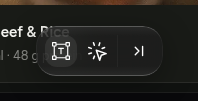
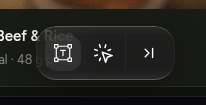
Edit bar: tools 36 px per redrawn board 31442:44737 (bar 86x46)
Designer raised the icon buttons from 32 to 36 (r12, 24 glyph in a 6 pad);
the bar follows: BAR_TOOL 36, BAR_H 46, flight-clone seats derived from the
constants. Probes: rest 86, hover 131, swollen 139; first return frame <= 84.

Claude-Session: https://claude.ai/code/session_011pKKmWvMd1NM1LsuubYKqf

diff --git a/prototype/src/modules/editor/EditBar.tsx b/prototype/src/modules/editor/EditBar.tsx
@@ -117,9 +117,11 @@ function ToolButton({ tool, label, children, hidden }: { tool: Tool; label: stri
    01.10.2026: «подкладка под кнопками становится больше, увеличиваясь во все стороны… как жидкий объект»);
    same spring as the stretch, so the two edges breathe together. Only the glass moves. */
 const GLASS_SWELL = 4
-/* board 31442:44737: frame 78 × 42 — 1 px rim inside + 4 padding around 32 tools with a 4 gap */
+/* board 31442:44737 (01.10.2026, designer: «размер самих кнопок… с 32 на 36»): frame 86 × 46 — 1 px rim inside +
+   4 padding around 36 tools (r12, glyph 24 in a 6 pad) with a 4 gap */
 const BAR_PAD = 5
-const BAR_H = 42
+const BAR_TOOL = 36
+const BAR_H = BAR_TOOL + 2 * BAR_PAD
 function GlassBar({ side, reveal, swell = false, tail, pillRef, pillProps, children }: {
   side: 'left' | 'right'
   reveal: boolean
@@ -176,7 +178,7 @@ function GlassBar({ side, reveal, swell = false, tail, pillRef, pillProps, child
     <div
       ref={(el) => { root.current = el; if (typeof pillRef === 'function') pillRef(el); else if (pillRef) (pillRef as React.MutableRefObject<HTMLDivElement | null>).current = el }}
       {...pillProps}
-      className="pointer-events-auto relative h-[42px]"
+      className="pointer-events-auto relative h-[46px]"
       data-ve-stretched={reveal ? '' : undefined}
       data-ve-swollen={swell ? '' : undefined}
     >
@@ -192,7 +194,7 @@ function GlassBar({ side, reveal, swell = false, tail, pillRef, pillProps, child
         {tail && (
           <motion.div
             ref={tailRef}
-            className="absolute flex h-[42px] items-center gap-1 pl-1 pr-[5px]"
+            className="absolute flex h-[46px] items-center gap-1 pl-1 pr-[5px]"
             style={{ top: swellV, ...(side === 'left' ? { left: tailSeat } : { right: tailSeat }) }}
             variants={editBarTail}
             initial="initial"
@@ -206,7 +208,7 @@ function GlassBar({ side, reveal, swell = false, tail, pillRef, pillProps, child
         )}
       </motion.div>
       {/* THE TOOLS — in flow, on top, never moved and never scaled */}
-      <div className="relative z-[1] flex h-[42px] items-center gap-1 p-[5px]">{children}</div>
+      <div className="relative z-[1] flex h-[46px] items-center gap-1 p-[5px]">{children}</div>
     </div>
   )
 }
@@ -243,17 +245,19 @@ function Flight({ flight, onDone }: { flight: Flight & { to: Rect }; onDone: () 
   const top = useTransform(p, (v) => lerp(from.y, to.y)(v) + (lerp(from.height, to.height)(v) * FLIGHT_THIN * bell(v)) / 2)
   /* the tools follow the WIDTH, not the clock: Select is opaque once the box has room for it,
      the handle once it has room for that too; «T» sits at 4 in a pill and centred (8) in a 48 tile */
-  const selO = useTransform(width, (w) => Math.max(0, Math.min(1, (w - 56) / 20)))
-  const tailO = useTransform(width, (w) => Math.max(0, Math.min(1, (w - 96) / 20)))
+  const selO = useTransform(width, (w) => Math.max(0, Math.min(1, (w - (BAR_PAD + BAR_TOOL + 4 + 12)) / 20)))
+  const tailO = useTransform(width, (w) => Math.max(0, Math.min(1, (w - (BAR_PAD + 2 * BAR_TOOL + 4 + 20)) / 20)))
   /* «T» sits at 5 in the pill (BAR_PAD) and centred (8) in the 48 tile */
-  const tLeft = useTransform(width, (w) => Math.max(BAR_PAD, Math.min(8, 8 - (w - 48) / 7)))
-  const tTop = useTransform(height, (h) => (h - 32) / 2)
+  /* seat in the 48 tile: (48 − 36) / 2 = 6 */
+  const tileSeat = (48 - BAR_TOOL) / 2
+  const tLeft = useTransform(width, (w) => Math.max(BAR_PAD, Math.min(tileSeat, tileSeat - (w - 48) / 38)))
+  const tTop = useTransform(height, (h) => (h - BAR_TOOL) / 2)
   useEffect(() => {
     const ctrl = animate(p, 1, { ...EDIT_DOCK_FLIGHT, onComplete: onDone })
     return () => ctrl.stop()
     // eslint-disable-next-line react-hooks/exhaustive-deps
   }, [])
-  const btn = 'absolute grid h-8 w-8 place-items-center rounded-[12px] text-white'
+  const btn = 'absolute grid h-9 w-9 place-items-center rounded-[12px] text-white'
   return (
     <motion.div
       data-ve-flight={flight.dir}
@@ -262,10 +266,10 @@ function Flight({ flight, onDone }: { flight: Flight & { to: Rect }; onDone: () 
       aria-hidden
     >
       <motion.span className={btn} style={{ left: tLeft, top: tTop }}><GlyphEditText size={24} /></motion.span>
-      <motion.span className={btn} style={{ left: BAR_PAD + 36, top: tTop, opacity: selO }}><GlyphSelect size={24} /></motion.span>
-      <motion.span className="absolute flex items-center gap-1" style={{ left: BAR_PAD + 72, top: tTop, opacity: tailO }}>
-        <span className="h-8 w-px bg-[var(--glass-divider)]" />
-        <span className="grid h-8 w-8 place-items-center rounded-[12px] text-white"><GlyphDockRight size={22} /></span>
+      <motion.span className={btn} style={{ left: BAR_PAD + BAR_TOOL + 4, top: tTop, opacity: selO }}><GlyphSelect size={24} /></motion.span>
+      <motion.span className="absolute flex items-center gap-1" style={{ left: BAR_PAD + 2 * (BAR_TOOL + 4), top: tTop, opacity: tailO }}>
+        <span className="h-9 w-px bg-[var(--glass-divider)]" />
+        <span className="grid h-9 w-9 place-items-center rounded-[12px] text-white"><GlyphDockRight size={22} /></span>
       </motion.span>
     </motion.div>
   )
@@ -460,7 +464,7 @@ export function EditBar() {
                    move; a pending batch keeps the pill where it is (Save/Clear are the only way out) */
                 tail={
                   <>
-                    <span className="h-8 w-px bg-[var(--glass-divider)]" aria-hidden />
+                    <span className="h-9 w-px bg-[var(--glass-divider)]" aria-hidden />
                     <button type="button" className="ve-bar-btn press-bloom" aria-label={dockBtnLabel} title={dockBtnLabel} onClick={dock} tabIndex={hover && !history ? 0 : -1} data-ve-dock-to-rail>
                       <GlyphDockRight size={22} />
                     </button>
@@ -517,7 +521,7 @@ export function EditBar() {
                 >
                   <GlassBar side="right" reveal={false} pillProps={{ 'data-ve-bar': '', 'data-ve-popped': '', 'data-ve-dirty': dirty ? '' : undefined }}>
                     {tools}
-                    <span className="h-8 w-px bg-[var(--glass-divider)]" aria-hidden />
+                    <span className="h-9 w-px bg-[var(--glass-divider)]" aria-hidden />
                     <button type="button" className="ve-bar-btn press-bloom" aria-label={t({ en: 'Put the tools back under the preview', uk: 'Повернути інструменти під превʼю' })} title={t({ en: 'Put the tools back under the preview', uk: 'Повернути інструменти під превʼю' })} onClick={undock} data-ve-undock>
                       <GlyphUndock size={22} />
                     </button>

diff --git a/prototype/src/index.css b/prototype/src/index.css
@@ -5187,8 +5187,8 @@ html[data-drag] .chat-reopen .chat-reopen-grip { opacity: 1; }
   position: relative;
   display: grid;
   place-items: center;
-  width: 32px;
-  height: 32px;
+  width: 36px; /* board 31442:44739 (01.10.2026): 36, r12, glyph 24 in a 6 pad — was 32 */
+  height: 36px;
   border-radius: 12px; /* board 31422:43616 (30.09.2026): hover, press and the selected disc all sit on r12 — «чтобы выглядело симметрично и ровно» */
   color: #fff;
   transition: background-color var(--dur-fast) var(--ease-std), opacity var(--dur-fast) var(--ease-std);

diff --git a/docs/knowledge/design-system.md b/docs/knowledge/design-system.md
@@ -220,7 +220,7 @@ stroke-паинтов через Plugin API (26.08.2026) и подтвержде
 | `.home-chip` / `.home-chip-cap` | промпт-чипы героя и круглый end-cap ряда | `Black/300` `#09090b3d` + `blur(16px)` | **обод плоский** (чипы `White/300` 24 %, cap `White/200` 12 %) — см. «Матовое стекло промпт-чипов» ниже | 28364:40330…40338, 28364:40340 |
 | `.liquid-glass--chip` | плашка размером в слово: `Recommended` на ряду брифа, `Remixer's pick` на карточке решения плана (`ui/Chip.tsx`, h 24, 13 medium, px 10, круглая). **С 16.09.2026 — СВОЁ стекло, не кнопочное** (дизайнер: «мне не нравится что они похожи на кнопки… для подобных пилюль (не кнопок) эффект liquid glass нужно сделать более реалистичным и стеклянным»): см. §5 «Стекло-бейдж» | **прозрачное тело**: 3 % белого + свет сверху (радиал 9 % → 0), **без blur** (за ней в обоих домах плоский цвет); внутри тонкая тёмная полоса толщины `inset 0 0 5px` чёрного 18 % | **не обводка, а СВЕТ**: два блика на кромке — вдоль верхней кромки из левого конца (95 %) и вдоль нижней в правый конец (75 %), радиалы по центру кромки шириной в половину плашки; два дальних конца ловят след 20 %; сама кромка 7 % | дизайнер 11.09.2026 (форма) · 16.09.2026 (стекло; стенд `prototype/scratchpad/glass-stand/`) |
 | `.liquid-glass--chip[data-tone]` | **та же плашка, окрашенная в тон статуса** — слово-статус домена в ряду `Unlink` панели Publish (`data-tone`: `live` · `working` · `stuck` · `ready` → токены `--live` · `--attention` · `--danger` · `--action`). **Слева внутри — точка 8 в цвет чернил, инсеты 8 · 8 · 8** (край → точка → слово), правый паддинг 10. **Чернила = тон, кроме `ready`: `--action-ink` #51A6FF** (дизайнер 16.09.2026) — стекло остаётся на `--action` | тон **18 % → 9 %** (тело 9 % + свет сверху 18 % → 0, `color-mix`) | те же два блика и два следа, но **бликом служит тон, поднятый наполовину к белому** (`color-mix(tone 50%, #fff)`) — блик на цветном стекле бледный, не насыщенный; кромка тон 20 %, следы 28 %. Альфы выше нейтральных, потому что оттенок тусклее белого. **Чернила — сам тон.** Пятого цвета через эту дверь не пройти: тона перечислены по имени | дизайнер 16.09.2026 («стекла в цвет статуса… и текст тоже оттенков статуса»; стенды `prototype/scratchpad/slot-stand/`, стекло — `glass-stand/`) |
-| `.liquid-glass--editbar` | **второе стекло — ТОЛЬКО панель инструментов редактора и её летящий клон** (борд `31442:44737`, дизайнер 01.10.2026: «я именно для этого бара только эксклюзивно изменил параметры стекла… второй вид стекла и сейчас оно должно быть применено только к этому бару»). Бокс 78 × 42 r16 = рим 1 внутри + паддинг 4 вокруг кнопок 32 с зазором 4 | `rgba(31,31,31,.67)` под **вертикальным** светом: белый 5 % на 0 %, 0 на 20–80 %, 5 % на 100 % — свет лежит на верхней и нижней кромках, не по диагонали; `blur(16px)`; тень `0 8 32 rgba(0,0,0,.33)` | **вертикальный**, 1 px внутри: `Neutral Alpha/300` 24 % на 0 и 100 %, `/50` 4 % на 25–75 % — ярко у верха и низа, гаснет по бокам. Это первое стекло дома с осью 180°, а не 150°/диагональ | дизайнер 01.10.2026, скриншоты Figma + CSS-экспорт; пробник `prototype/scratchpad/edit-dock/swell.mjs` |
+| `.liquid-glass--editbar` | **второе стекло — ТОЛЬКО панель инструментов редактора и её летящий клон** (борд `31442:44737`, дизайнер 01.10.2026: «я именно для этого бара только эксклюзивно изменил параметры стекла… второй вид стекла и сейчас оно должно быть применено только к этому бару»). Бокс 86 × 46 r16 = рим 1 внутри + паддинг 4 вокруг кнопок **36** (r12, глиф 24) с зазором 4 — кнопки подняты с 32 в ту же ночь по слову дизайнера | `rgba(31,31,31,.67)` под **вертикальным** светом: белый 5 % на 0 %, 0 на 20–80 %, 5 % на 100 % — свет лежит на верхней и нижней кромках, не по диагонали; `blur(16px)`; тень `0 8 32 rgba(0,0,0,.33)` | **вертикальный**, 1 px внутри: `Neutral Alpha/300` 24 % на 0 и 100 %, `/50` 4 % на 25–75 % — ярко у верха и низа, гаснет по бокам. Это первое стекло дома с осью 180°, а не 150°/диагональ | дизайнер 01.10.2026, скриншоты Figma + CSS-экспорт; пробник `prototype/scratchpad/edit-dock/swell.mjs` |
 | `.tip-glass` | **тултип — стеклянный пузырь с хвостом** (`ui/Tooltip.tsx`): объяснение слова-статуса домена над плашкой в ряду `Unlink`; тело 7 × 12 / r10, хвост 14 × 7 со скруглённой вершиной, кончик в 6 px от цели; текст 13 medium по центру, до 280 | `rgba(24,24,27,.82)` + **blur 16** (за пузырём поле и подпись — есть что размывать); тело и хвост — ОДНА фигура `clip-path: path()` | **тот же рим, что у контролов — домашняя диагональ 20 → 9 → 7 → 16 %**, но нарисованный SVG-штрихом по тому же пути, что клип: `::before`-маска не огибает хвост, штрих — да. Блик формирования: второй белый штрих .9 с | дизайнер 16.09.2026 (кадры Dock macOS «Freeform» / «Pages» и Figma «Assets ⌥2»); спека `docs/handoff/tooltip-spec.md` |
 
 ⚠ **Кружки композера БИЛДЕРА — 24 → 4 → 20 %, и это прислал сам дизайнер** (09.09.2026: «у

diff --git a/docs/knowledge/decisions.md b/docs/knowledge/decisions.md
@@ -94,7 +94,7 @@
 | 30.09.2026 | **Аррайвал-блик по ободу — во всей дизайн-системе — заменён на Rim Sweep: 1 px кольцо в 3,4 раза тише (.07, голова .18 — после второго смягчения по его записи), зажигается из верхнего центра и бежит двумя фронтами по контуру, растворяется к 1,1 с** | Его запись: «бордер на пару секунд становится белым… стрёмно… раза в 2–3 менее ярким… вспышка по бордеру от центра, заполняющая весь контур… как часть дизайн системы, во всех компонентах» | **принято (заказ)**; точка старта (верхний центр) и цифры голова/тело — наши | `index.css` «THE RIM SWEEP» |
 | 30.09.2026 | **Перелёт панели инструментов в рейл и назад ужат: пружина .62 / .16 → .42 / .26, капля +12 % / −5 % → +30 % / −12 % с пиком у старта** | Его пятая запись: «саму анимацию перелёта туда, сюда, я бы сделал резче и быстрее, с таким прикольным apple liquid glass эффектом, как капля воды, сейчас… немного медленная и обычная» | **принято (заказ)**; числа наши, передача на посадке ≤ 0,5 px сохранена | `ui/motion.ts` `EDIT_DOCK_FLIGHT`, `EditBar.tsx` `Flight` |
 | 01.10.2026 | **Стекло панели инструментов на ховере набухает на 4 px во все стороны (Glass Swell) — вдобавок к вытягиванию под ручку; кнопки стоят** | Его шестая запись: «фон с анимацией жидкой красиво и плавно увеличивался на 4 px во все стороны… подкладка под кнопками становится больше… как жидкий объект» | **принято (заказ)**; радиус 16 → 20 и та же пружина — наши | `EditBar.tsx` `GLASS_SWELL`, `GlassBar` |
-| 01.10.2026 | **Панель инструментов редактора носит СВОЁ, второе стекло (`.liquid-glass--editbar`: тело 31/31/31 на 67 %, вертикальный свет 5 % на кромках, вертикальный рим 24 → 4 → 4 → 24 %) и коробку 78 × 42 борда 31442:44737 — только она и её летящий клон** | Дизайнер: «я именно для этого бара только эксклюзивно изменил параметры стекла… второй вид стекла и сейчас оно должно быть применено только к этому бару» | **принято (борд)**; синий диск выбранного инструмента оставлен — на борде плита ховера («да это просто типа ховер», 01.10.2026) | `index.css` `.liquid-glass--editbar`, `EditBar.tsx` `BAR_PAD` / `BAR_H` |
+| 01.10.2026 | **Панель инструментов редактора носит СВОЁ, второе стекло (`.liquid-glass--editbar`: тело 31/31/31 на 67 %, вертикальный свет 5 % на кромках, вертикальный рим 24 → 4 → 4 → 24 %) и коробку борда 31442:44737 — 78 × 42, а после его же правки кнопок 32 → 36 в ту же ночь **86 × 46** — только она и её летящий клон** | Дизайнер: «я именно для этого бара только эксклюзивно изменил параметры стекла… второй вид стекла и сейчас оно должно быть применено только к этому бару» | **принято (борд)**; синий диск выбранного инструмента оставлен — на борде плита ховера («да это просто типа ховер», 01.10.2026) | `index.css` `.liquid-glass--editbar`, `EditBar.tsx` `BAR_PAD` / `BAR_H` |
 | 30.09.2026 | **Летящий клон панели несёт те же кнопки, что дома (Select проявляется по ширине, «T» едет между сиденьями), и вытягивается каплей вдоль пути** | Вторая запись дизайнера: «когда кнопки возвращаются назад… 1 или 2 кадра разворачивает кнопки» — клон с одним глифом стоял на месте, потом подменялся пилюлей за кадр | **принято (правка по отклонению)**; замер подмены ≤ 0,7 px | `EditBar.tsx` `Flight` |
 | 30.09.2026 | **При ховере панели инструментов двигается ТОЛЬКО стекло: кнопки не сдвигаются и не масштабируются; рост — настоящая ширина слоя под ними с перелётом пружины, не `layout`** | Первая сборка отклонена по записи: «зачем оно деформирует кнопки при анимации??? … кнопки начинают от тебя убегать левее… нет … жидкости и плавности» — `layout` на пилюле масштабировал детей, центрирование сдвигало их влево | **принято (правка по отклонению)** | `EditBar.tsx` `GlassBar`, `EDIT_BAR_STRETCH` |
 | 30.09.2026 | **Панель инструментов докается в правый рейл над кнопкой поддержки — ОДНИМ летящим стеклом, а не «погасла и появился язычок», как у Lovable** | Его заказ по записи Lovable («перелетает и прикрепляется справа… при ховере выскакивают кнопки… по клику вернуть») и скриншот рейла с местом; у Lovable две картинки и кромка канваса — у нас один объект и рейл (место назвал он) | **принято (заказ)**; «…» из сегмента Lovable и синяя подсветка докнутой кнопки — наши, спрошено | `EditBar.tsx`, `ui.editBarDocked` |

diff --git a/docs/features/visual-editor/README.md b/docs/features/visual-editor/README.md
@@ -98,10 +98,12 @@ h36 r12: девайс 32 | делитель 1 × 32 8 % | «открыть в н
   эксклюзивно изменил параметры стекла… второй вид стекла и сейчас оно должно быть применено только к этому
   бару»).** Класс `.liquid-glass--editbar` (носят пилюля, пилюля рейла и летящий клон — больше никто): заливка
   `rgba(31,31,31,.67)` под вертикальным светом 5 % у верхней и нижней кромок, рим 1 px внутри вертикальным
-  градиентом 24 → 4 → 4 → 24 % (`NA/300` / `NA/50`), тень `0 8 32 / .33`, blur 16, r16. Коробка **78 × 42**:
-  кнопки 32 на (5, 5) с зазором 4 — 1 px рима + 4 паддинга (`BAR_PAD` 5, `BAR_H` 42 в `EditBar.tsx`); было
-  76 × 40 с паддингом 4. Все сиденья клона и ручки пересчитаны от `BAR_PAD` (Select 41, ручка 77); покой 78, ховер со
-  стретчем 119, с набуханием **127 × 50**. Замер: «T» на (954, 834) = 5 от кромки, посадка полёта ≤ 0,5 px.
+  градиентом 24 → 4 → 4 → 24 % (`NA/300` / `NA/50`), тень `0 8 32 / .33`, blur 16, r16. Коробка — сначала **78 × 42** с кнопками 32, а с той же ночи **86 × 46 с кнопками 36** (дизайнер: «размер самих
+  кнопок в этом баре можно увеличить с 32 на 36»; борд перерисован: инстанс `Icon button` 36, контейнер r12, глиф 24
+  в паддинге 6; `BAR_PAD` 5, `BAR_TOOL` 36, `BAR_H` = 46 в `EditBar.tsx`, `.ve-bar-btn` 36). Все сиденья клона и ручки
+  выведены из этих двух констант (Select 45, ручка 85, сиденье «T» в тайле 48 — 6); покой 86, ховер со стретчем 131,
+  с набуханием **139 × 54**. Замер: «T» 36 × 36 на (950, 830) = 5 от кромки, посадка полёта ≤ 0,5 px. Порог первого
+  кадра обратного полёта в пробниках поднят до 84 — из тайла 48 капля +30 % стартует шире прежних 72.
   ⚠ **Синий диск выбранного инструмента (борд 31422:43616) НЕ тронут:** на новом борде «T» лежит в плите 8 %
   (`Transparent Hover/Dark Hover`) — это ховер инстанса, не состояние выбора. ✅ Подтверждено дизайнером 01.10.2026: «да это просто типа ховер».
 - **Ховер ещё и НАБУХАЕТ стекло — Glass Swell (01.10.2026, шестая запись: «помимо… кнопки со стрелкой… чтобы

diff --git a/CLAUDE.md b/CLAUDE.md
@@ -3789,8 +3789,9 @@ Proxima Nova, а на Figtree читаются сдвинутыми вниз (в
   пробник `scratchpad/edit-dock/swell.mjs`);
   ⚠ **У БАРА ВТОРОЕ СТЕКЛО — `.liquid-glass--editbar`, ТОЛЬКО У НЕГО И ЕГО КЛОНА** (борд `31442:44737`, 01.10.2026:
   «эксклюзивно изменил параметры стекла… второй вид стекла… только к этому бару»): `rgba(31,31,31,.67)` под ВЕРТИКАЛЬНЫМ
-  светом 5 % у верха и низа, рим 1 внутри вертикально 24 → 4 → 4 → 24 %, тень `0 8 32 / .33`, blur 16; коробка **78 × 42**
-  (кнопки 32 на (5, 5), `BAR_PAD` 5) — пробники: покой 78, ховер 127 × 50. Синий диск выбора не тронут — серая плита «T» на борде это ховер (подтверждено дизайнером 01.10.2026).
+  светом 5 % у верха и низа, рим 1 внутри вертикально 24 → 4 → 4 → 24 %, тень `0 8 32 / .33`, blur 16; коробка **86 × 46**
+  (кнопки **36** на (5, 5) — «размер самих кнопок… с 32 на 36», борд перерисован в тот же час; `BAR_PAD` 5,
+  `BAR_TOOL` 36, `.ve-bar-btn` 36 r12, глиф 24) — пробники: покой 86, ховер 139 × 54. Синий диск выбора не тронут — серая плита «T» на борде это ховер (подтверждено дизайнером 01.10.2026).
   клик — **ОДНО стекло летит** фиксированным боксом от растянутого стекла до слота (`EDIT_DOCK_FLIGHT` **.42 / .26** — пятая
   запись дизайнера: «резче и быстрее… как капля воды»; было .62 / .16),
   **оба дома скрыты весь полёт**; в рейле — кнопка 48 r16, синяя при включённом инструменте; её ховер выскакивает пилюлю
